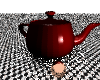
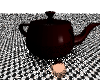
hacky reflection

diff --git a/src/material/legacy.rs b/src/material/legacy.rs
@@ -5,6 +5,7 @@ use intersection::Intersection;
 use ray::Ray;
 use na::Vector3;
 use light::Light;
+use geometry::{reflect};
 
 pub struct Whitted {
     pub pigment: Color,
@@ -39,7 +40,7 @@ impl Whitted {
     }
 
 
-    fn trace_for_light(&self, r: &Ray, light_vec: &Vector3<f64>, l: &Light, intersection: &Intersection, s: &Scene) -> Color {
+    fn trace_for_light(&self, r: &Ray, light_vec: &Vector3<f64>, l: &Light, intersection: &Intersection) -> Color {
         return self.diffuse(&intersection, &light_vec, &l) + self.specular(r, intersection, light_vec);
     }
 }
@@ -50,14 +51,22 @@ impl MaterialModel for Whitted {
         for light in &s.lights {
             let light_vec = light.position - intersection.point;
             let shadow_ray = Ray {ro: intersection.point, rd: light_vec};
-            let shadow_intersection = s.objects.nearest_intersection(&shadow_ray, light_vec.norm(), 0.1, Some(intersection.object)); 
+            let shadow_intersection = s.objects.nearest_intersection(&shadow_ray, light_vec.norm(), 0.1); 
 
             match shadow_intersection {
                 Some(_) => (),// Point in shadow...
                 None => (
-                    out = out + self.trace_for_light(&r, &light_vec, &light, &intersection, &s)
+                    out = out + self.trace_for_light(&r, &light_vec, &light, &intersection)
                     ),
             }
+        }
+
+        if self.reflection > 0. {
+            let refl = Ray {
+                ro: intersection.point,
+                rd: reflect(r.rd, intersection.normal)
+            };
+            return ScatteredRay{ attenuate: out * self.reflection, ray: Some(refl) };
         }
         return ScatteredRay{ attenuate: out, ray: None };
     }

diff --git a/src/octree.rs b/src/octree.rs
@@ -137,7 +137,7 @@ impl OctreeNode {
 
         return intersection;
     }
-
+/*
     /// Based on: 
     /// An Efficient Parametric Algorithm for Octree Traversal (2000)
     /// by J. Revelles , C. Ureña , M. Lastra
@@ -270,6 +270,7 @@ impl OctreeNode {
         }
         return None;
     }
+    */
 
     pub fn leaf_intersection(&self, r: &Ray, max:f64, min:f64) -> Option<Intersection> {
         if self.is_leaf(){

diff --git a/src/scenegraph.rs b/src/scenegraph.rs
@@ -38,7 +38,7 @@ impl SceneGraph {
         &self.items
     }
 
-    pub fn nearest_intersection(&self, r: &Ray, max:f64, min:f64, exclude: Option<&SceneObject>) -> Option<Intersection> {
+    pub fn nearest_intersection(&self, r: &Ray, max:f64, min:f64) -> Option<Intersection> {
         let tree = self.tree_nearest_intersection(r,max,min);
 		/*
         let naive = self.naive_intersection(r,max,min,exclude);

diff --git a/src/trace.rs b/src/trace.rs
@@ -7,7 +7,7 @@ use std::f64;
 
 // Returns num rays cast, Color
 pub fn trace (r: &Ray, depth: u64, s: &Scene) -> (u64, Color) {
-    let closest = s.objects.nearest_intersection(r, f64::INFINITY, 0f64, None);
+    let closest = s.objects.nearest_intersection(r, f64::INFINITY, 0f64);
 
     match closest {
         Some(x) => return trace_intersection(r, x, depth, s),
